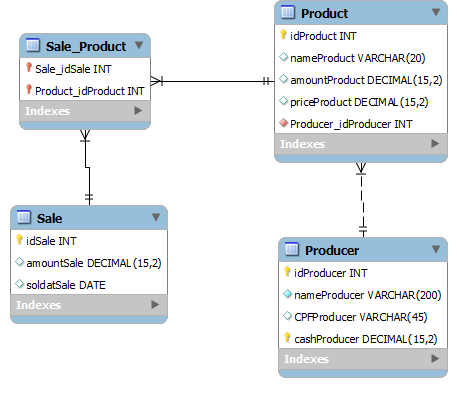
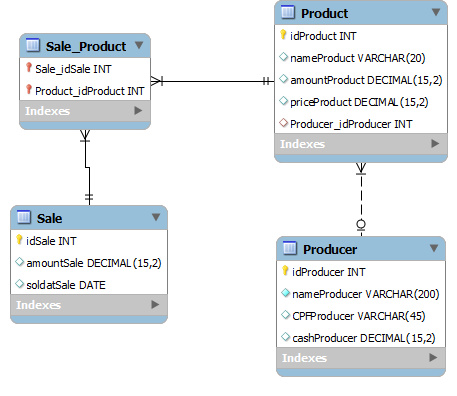
Add CRU Producer, delete isn't work

diff --git a/ShopApp/src/dao/ProducerDAO.java b/ShopApp/src/dao/ProducerDAO.java
@@ -6,13 +6,11 @@
 package dao;
 
 import exceptions.ProducerDAOException;
-import exceptions.SaleDAOException;
 import java.sql.Date;
 import java.sql.PreparedStatement;
 import java.sql.ResultSet;
 import java.util.ArrayList;
 import model.Producer;
-import model.Sale;
 
 /**
  *
@@ -25,7 +23,6 @@ public class ProducerDAO implements ProducerDAOInterface{
     public boolean insert(Producer producer) throws ProducerDAOException {
     try{
 			pstm=ConnectionFactory.getConnection().prepareStatement("INSERT INTO producer (idProducer,nameProducer,CPFProducer,cashProducer) values (null,?,?,?)");
-			pstm.setInt(0,producer.getId());
                         pstm.setString(1,producer.getName());
 			pstm.setString(2, producer.getCpf());
 			pstm.setDouble(3, producer.getCash());
@@ -40,14 +37,33 @@ public class ProducerDAO implements ProducerDAOInterface{
 
     @Override
     public boolean update(Producer producer) throws ProducerDAOException {
-        throw new UnsupportedOperationException("Not supported yet."); //To change body of generated methods, choose Tools | Templates.
-    }
+                try{
+                        pstm=ConnectionFactory.getConnection().prepareStatement("UPDATE producer SET  nameProducer=?, CPFProducer=?, cashProducer=? WHERE idProducer=?");
+                        pstm.setString(1,producer.getName());
+                        pstm.setString(2, producer.getCpf());
+                        pstm.setDouble(3, producer.getCash());
+                        pstm.setInt(4, producer.getId());
+			pstm.execute();
+			ConnectionFactory.closeConnection(pstm);
+			bRet=true;
+		}catch(Exception e){
+			throw new ProducerDAOException(e.getMessage());
+		}	
+                return bRet;    }    
 
     @Override
     public boolean delete(Producer producer) throws ProducerDAOException {
-        throw new UnsupportedOperationException("Not supported yet."); //To change body of generated methods, choose Tools | Templates.
+          try{
+			pstm=ConnectionFactory.getConnection().prepareStatement("delete from producer where idProducer=?");
+                        pstm.setInt(1,producer.getId());
+                        pstm.execute();
+			ConnectionFactory.closeConnection(pstm);
+			bRet=true;
+	}catch(Exception e){
+			throw new ProducerDAOException(e.getMessage());
+	}
+	return bRet;        
     }
-
     @Override
     public boolean update(int idProducer) throws ProducerDAOException {
         throw new UnsupportedOperationException("Not supported yet."); //To change body of generated methods, choose Tools | Templates.
@@ -84,7 +100,21 @@ public class ProducerDAO implements ProducerDAOInterface{
 
     @Override
     public Producer retriveByID(int id) throws ProducerDAOException {
-        throw new UnsupportedOperationException("Not supported yet."); //To change body of generated methods, choose Tools | Templates.
-    }
+        Producer arRet = new Producer(); 
+		try{
+                                pstm=ConnectionFactory.getConnection().prepareStatement("SELECT * FROM producer where idProducer=?");
+                                pstm.setInt(1,id);
+                                ResultSet rs=pstm.executeQuery();
+                                rs.next();
+                                arRet = new Producer(rs.getInt("idProducer"),
+                                                    rs.getString("nameProducer"),
+                                                    rs.getString("CPFProducer"),
+                                                    rs.getInt("cashProducer"));
+                                
+                                ConnectionFactory.closeConnection(pstm,rs);
+                        }catch(Exception e){
+                                throw new ProducerDAOException(e.getMessage());
+                        }
+                       return arRet;    }
     
 }

diff --git a/ShopApp/src/model/Producer.java b/ShopApp/src/model/Producer.java
@@ -13,18 +13,18 @@ public class Producer {
     private int id;
     private String name;
     private String cpf;
-    private double cash;
+    private float cash;
 
-    public Producer(int id,String name, String cpf,int cash) {
+    public Producer(int id,String name, String cpf,float cash) {
         this.name = name;
         this.cpf = cpf;
-        this.cash = 0;
+        this.cash = cash;
         this.id = id;
     }
-    public Producer(String name, String cpf,int cash) {
+    public Producer(String name, String cpf,float cash) {
         this.name = name;
         this.cpf = cpf;
-        this.cash = 0;
+        this.cash = cash;
         this.id = 0;
     }
     public Producer() {
@@ -156,14 +156,14 @@ public class Producer {
     /**
      * @return the cash
      */
-    public double getCash() {
+    public float getCash() {
         return cash;
     }
 
     /**
      * @param cash the cash to set
      */
-    public void setCash(double cash) {
+    public void setCash(float cash) {
         this.cash = cash;
     }
     

diff --git a/ShopApp/src/Run.java b/ShopApp/src/Run.java
@@ -21,14 +21,12 @@ public class Run {
                 //EstadoCadastroView estado = new EstadoCadastroView("Estado",100,100,500,500);
 	//	estado.setVisible(true);
           //  	estado.setDefaultCloseOperation(JFrame.DISPOSE_ON_CLOSE);
-
-                Sale s = new Sale(2, 3, new java.sql.Date(1));
+                Producer pd = new Producer(1,"1anao","112",2);
                 try{
                   //   EstadoDAO dao= new EstadoDAO();
-                       SaleDAO dao = new SaleDAO();
-                      // dao.update(s);
-                       
-                       System.out.println(dao.retriveByID(1).getAmount());
+                       ProducerDAO dao = new ProducerDAO();
+                       dao.delete(pd);
+                       System.out.println(dao.retriveByID(1).getName());
                        //e.insert(es);
               //      dao.insert(sale);
                 }catch(Exception e){

diff --git a/ShopApp/src/dao/SaleDAO.java b/ShopApp/src/dao/SaleDAO.java
@@ -51,8 +51,8 @@ public class SaleDAO implements saleDAOInterface{
     }
 
     @Override
-    public boolean delete(Sale sale) throws SaleDAOException {
-		   try{
+    public boolean delete(Sale sale) throws SaleDAOException {          
+        try{
 			pstm=ConnectionFactory.getConnection().prepareStatement("delete from sale where idSale=?");
                         pstm.setInt(1,sale.getId());
                         pstm.execute();

diff --git a/ShopApp/src/exceptions/ProducerDAOException.java b/ShopApp/src/exceptions/ProducerDAOException.java
@@ -10,7 +10,7 @@ public class ProducerDAOException extends Exception {
 	}
 
 	public ProducerDAOException(String message) {
-		super("Erro em SaleDAO "+message);
+		super("Erro em ProducerDAO "+message);
 		// TODO Auto-generated constructor stub
 	}
 
